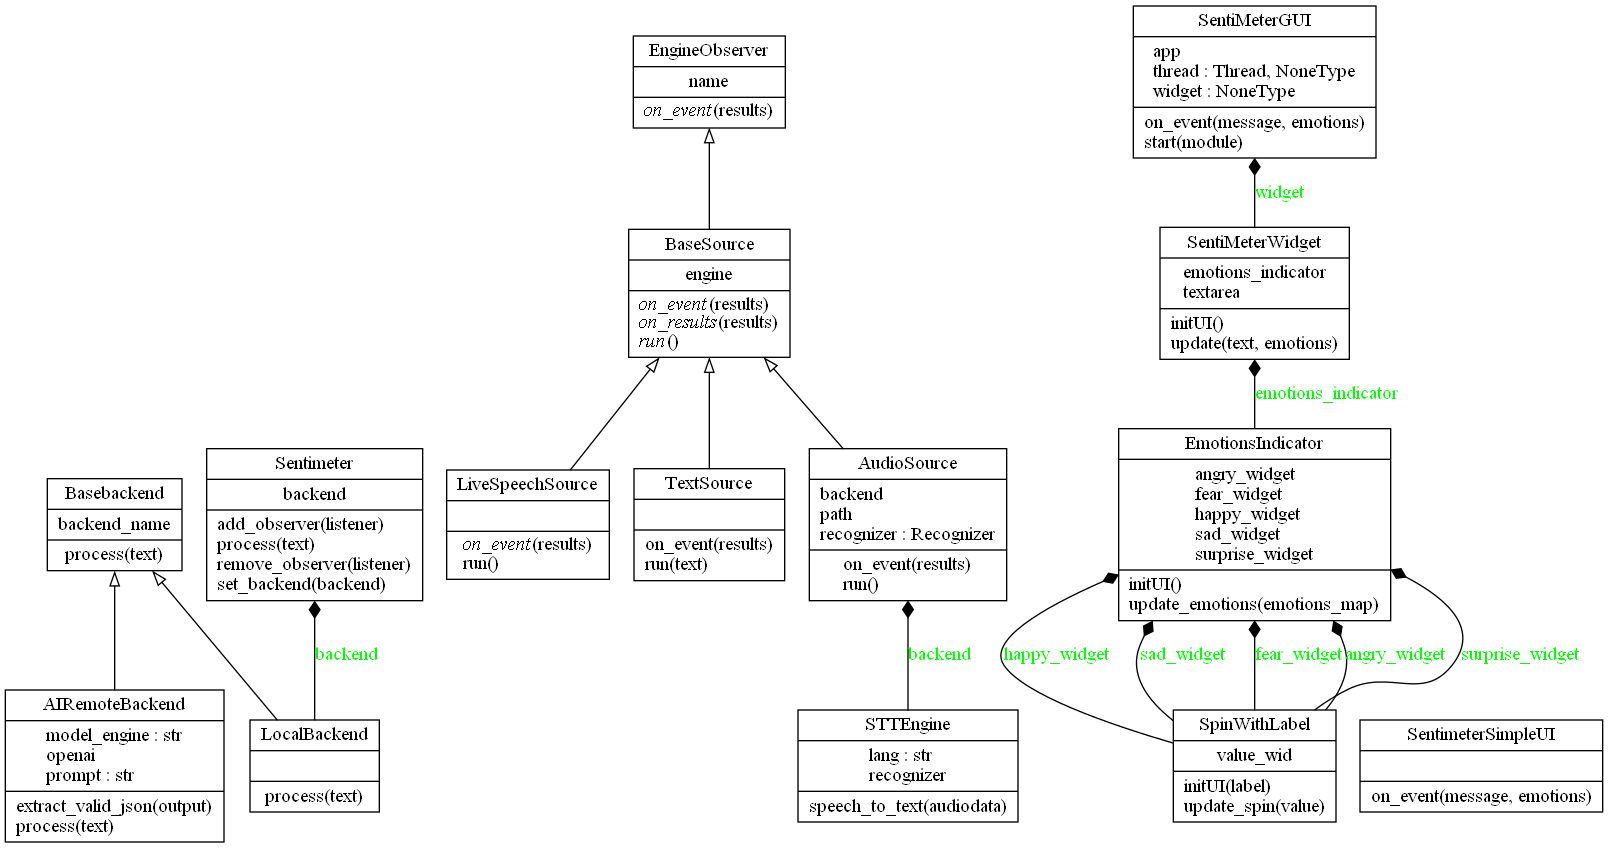
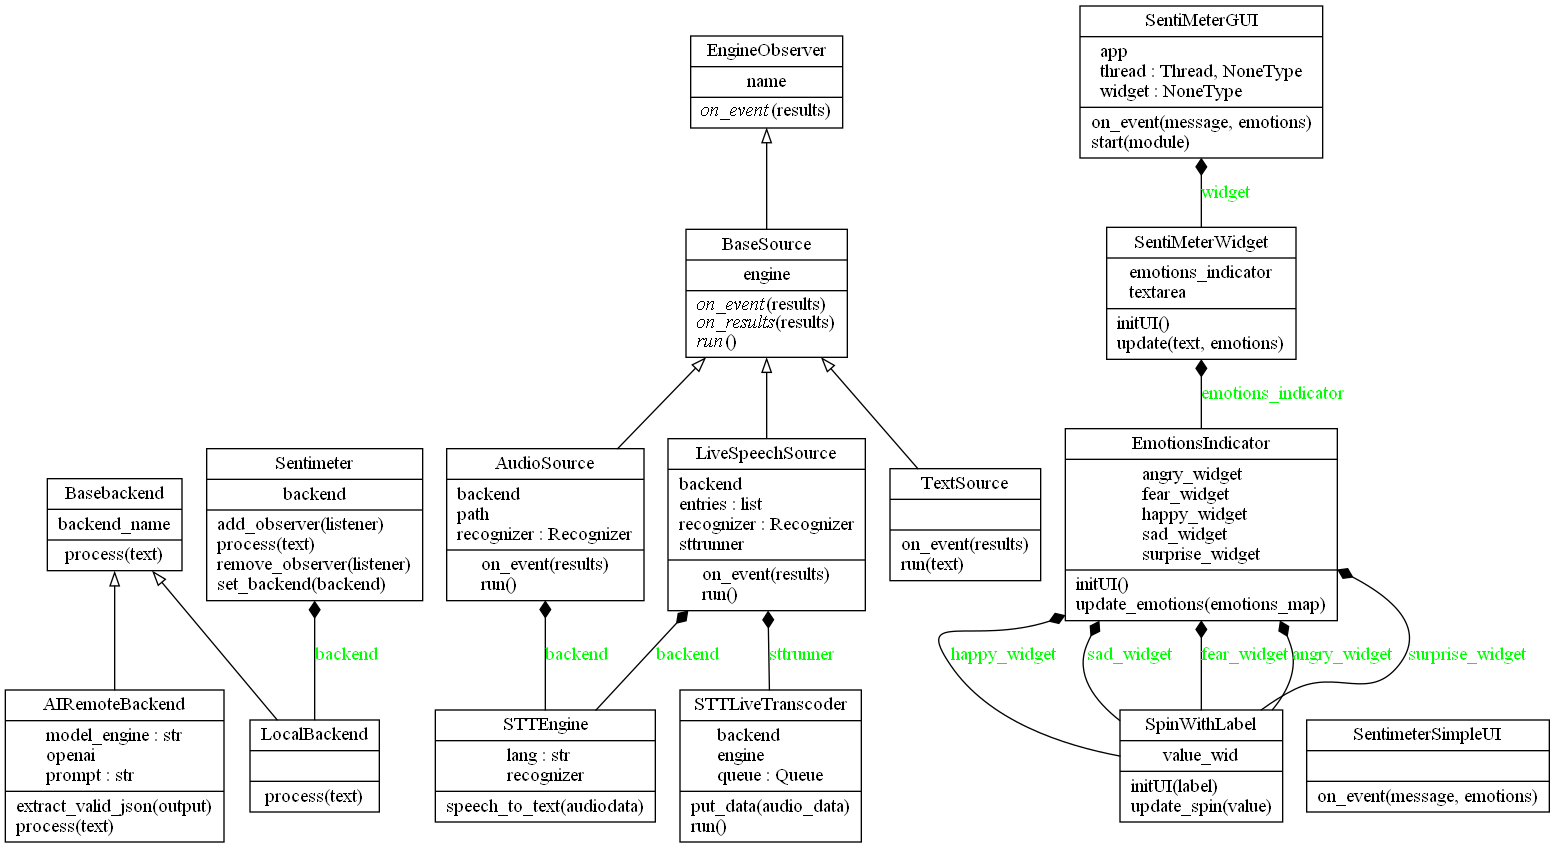
Preparing for Beta ReleasE

diff --git a/apps/live_speech.py b/apps/live_speech.py
@@ -1,109 +1,24 @@
 #!/usr/bin/env python
 # -*- coding: utf-8 -*-
-
-"""
-Application Main
-"""
-
-import logging
-from core import SentiMeterGUI
-import signal
 import sys
-import logging
-from threading import Thread
-from queue import Queue
-import speech_recognition as sr
-import core.emotions_engine as emotions_engine
-from core.emotions_engine import SentiMeterApp
-from core.sttengine import STTEngine
+import signal
 
-module = None
-
-
-class STTLiveTranscoder(Thread):
-    """
-    Threaded implementation to handle live audio with a processing FIFO
-    """
-
-    def __init__(self, backend):
-        """
-        Constructor
-        """
-        Thread.__init__(self)
-        self.backend = backend
-        self.queue = Queue()
-        self.user_interface = SentimeterSimpleUI("Live UI")
-
-    def put_data(self, audio_data):
-        """
-        Adds the audio data to processing queue
-        """
-        self.queue.put(audio_data)
-
-    def run(self):
-        """
-        Runner
-        """
-        while True:
-            audiodata = self.queue.get()
-            result = self.backend.speech_to_text(audiodata)
-            emotions_engine.engine.process_text(result)
-        return True
-
-
-class LiveSpeechModule(SentiMeterApp):
-    """
-    Classs Abstracts Audio Related features
-    """
-
-    def __init__(self) -> None:
-        """
-        Constructor
-        """
-        super().__init__()
-        self.recognizer = sr.Recognizer()
-        self.entries = []
-        self.backend = STTEngine(self.recognizer)
-        self.sttrunner = STTLiveTranscoder(self.backend)
-
-    def start(self):
-        """
-        Process Microphone
-        """
-        super().start()
-        self.sttrunner.start()
-        while True:
-            with sr.Microphone() as source:
-                # read the audio data from the default microphone
-                audio_data = self.recognizer.record(source, duration=5)
-                self.sttrunner.put_data(audio_data)
-
-    def stop(self):
-        """
-        Routines to stop the Engine
-        """
-        super().stop()
-        logging.debug("Stopping IntelliAudio")
-        if not self.sttrunner.is_alive:
-            self.sttrunner.join(1)
+sys.path.append("..\src")
+from sentimeter.sentimeter import Sentimeter
+from sentimeter.live_speech_source import LiveSpeechSource
 
 
 def main():
-    module = LiveSpeechModule()
-    module.start()
+    instance = Sentimeter()
+    audio_source = LiveSpeechSource(instance)
+    audio_source.run()
 
 
 def signal_handler(sig, frame):
-    """Need to capture the Control-C especially when any module is in live processing mode"""
-    global module
-    logging.info("Please wait, Let me cleanup")
-    if module.is_active:
-        module.stop()
     sys.exit(0)
 
 
 if __name__ == "__main__":
     signal.signal(signal.SIGINT, signal_handler)
-    # Below line is required , Related to PY bug https://bugs.python.org/issue35935
     signal.signal(signal.SIGINT, signal.SIG_DFL)
     main()

diff --git a/src/sentimeter/live_speech_source.py b/src/sentimeter/live_speech_source.py
@@ -1,0 +1,64 @@
+import logging
+import json
+import speech_recognition as sr
+from sentimeter.sources import BaseSource
+from sentimeter.speech_to_text import STTEngine
+from threading import Thread
+from queue import Queue
+
+
+class STTLiveTranscoder(Thread):
+    """
+    Threaded implementation to handle live audio with a processing FIFO
+    """
+
+    def __init__(self, backend, engine):
+        """
+        Constructor
+        """
+        Thread.__init__(self)
+        self.backend = backend
+        self.engine = engine
+        self.queue = Queue()
+
+    def put_data(self, audio_data):
+        """
+        Adds the audio data to processing queue
+        """
+        self.queue.put(audio_data)
+
+    def run(self):
+        """
+        Runner
+        """
+        while True:
+            audiodata = self.queue.get()
+            result = self.backend.speech_to_text(audiodata)
+            if result != "":
+                self.engine.process(result)
+            else:
+                logging.info("Skipping Silence")
+        return True
+
+
+class LiveSpeechSource(BaseSource):
+    def __init__(self, engine) -> None:
+        super().__init__(engine)
+        self.recognizer = sr.Recognizer()
+        self.entries = []
+        self.backend = STTEngine(self.recognizer)
+        self.sttrunner = STTLiveTranscoder(self.backend, engine)
+
+    def run(self):
+        self.sttrunner.start()
+        while True:
+            with sr.Microphone() as source:
+                # read the audio data from the default microphone
+                audio_data = self.recognizer.record(source, duration=5)
+                self.sttrunner.put_data(audio_data)
+        return True
+
+    def on_event(self, results):
+        logging.info("Results in JSON follows")
+        logging.info(json.dumps(results))
+        pass

diff --git a/src/sentimeter/backends.py b/src/sentimeter/backends.py
@@ -29,8 +29,8 @@ class AIRemoteBackend(Basebackend):
         # Set up the model and prompt
         self.model_engine = "text-davinci-003"
         self.prompt = """
-        can you identify the levels of Happy, Sad , Fear, Angry and Surprise in the 
-        following test and share the result as json format?
+        can you identify the levels of Happy, Sad , Fear, Angry and Surprise in the
+         following test and share the result as json format?
         """
 
     def extract_valid_json(self, output):
@@ -55,6 +55,6 @@ class AIRemoteBackend(Basebackend):
         json_string = self.extract_valid_json(result)
         try:
             data = json.loads(json_string)
-        except ValueError as e:
+        except ValueError:
             data = {}
         return data

diff --git a/apps/audio_file.py b/apps/audio_file.py
@@ -6,10 +6,10 @@ import signal
 import logging
 
 sys.path.append("..\src")
-
 from sentimeter.sentimeter import Sentimeter
 from sentimeter.file_audio_source import AudioSource
-from sentimeter.backends import AIRemoteBackend
+
+# from sentimeter.backends import AIRemoteBackend
 
 CHATGPT_KEY = os.environ.get("OPENAI_KEY")
 
@@ -19,8 +19,8 @@ def main():
         logging.critical("Error : Audio filename must be provided")
         sys.exit(-1)
     app = Sentimeter()
-    backend = AIRemoteBackend(CHATGPT_KEY)
-    app.set_backend(backend)
+    # backend = AIRemoteBackend(CHATGPT_KEY)
+    # app.set_backend(backend)
     audio_source = AudioSource(app, sys.argv[1])
     audio_source.run()
 

diff --git a/apps/telegram.py b/apps/telegram.py
@@ -1,19 +1,14 @@
 #!/usr/bin/env python
 # -*- coding: utf-8 -*-
+
 import sys
-import os
 import signal
+import os
 import logging
 import telebot
-import json
-import os
-import logging
 
 sys.path.append("..\src")
-
 from sentimeter.sentimeter import Sentimeter
-from sentimeter.file_audio_source import AudioSource
-from sentimeter.backends import AIRemoteBackend
 from sentimeter.engine_observer import EngineObserver
 from sentimeter.sources import BaseSource
 

diff --git a/src/sentimeter/sources.py b/src/sentimeter/sources.py
@@ -23,18 +23,6 @@ class BaseSource(EngineObserver):
         pass
 
 
-class LiveSpeechSource(BaseSource):
-    def __init__(self, engine) -> None:
-        super().__init__(engine)
-        pass
-
-    def run(self):
-        return True
-
-    def on_event(self, results):
-        pass
-
-
 class TextSource(BaseSource):
     def __init__(self, engine) -> None:
         super().__init__(engine)

diff --git a/src/sentimeter/sentimeter.py b/src/sentimeter/sentimeter.py
@@ -1,14 +1,7 @@
-from sentimeter.backends import LocalBackend, AIRemoteBackend, Basebackend
-from sentimeter.engine_observer import EngineObserver
-
-# HAPPY = "Happy"
-# SAD = "Sad"
-# FEAR = "Fear"
-# ANGRY = "Angry"
-# SURPRISE = "Surprise"
-TEXT = "Text"
-
 import logging
+from sentimeter.backends import LocalBackend
+
+TEXT = "Text"
 
 
 class Sentimeter:

diff --git a/src/sentimeter/speech_to_text.py b/src/sentimeter/speech_to_text.py
@@ -25,6 +25,7 @@ class STTEngine:
         """
         function to get the text for inputed audio data
         """
+        result = ""
         try:
             actual_result = self.recognizer.recognize_google(audiodata, language=self.lang, show_all=True)
         except sr.UnknownValueError:

diff --git a/apps/text_file.py b/apps/text_file.py
@@ -2,7 +2,6 @@ import sys
 import os
 
 sys.path.append("..\src")
-
 from sentimeter.sentimeter import Sentimeter
 from sentimeter.sources import TextSource
 from sentimeter.backends import AIRemoteBackend

diff --git a/src/sentimeter/file_audio_source.py b/src/sentimeter/file_audio_source.py
@@ -1,6 +1,5 @@
 import logging
 import os
-import logging
 from pydub import AudioSegment
 from pydub.silence import split_on_silence
 import speech_recognition as sr
